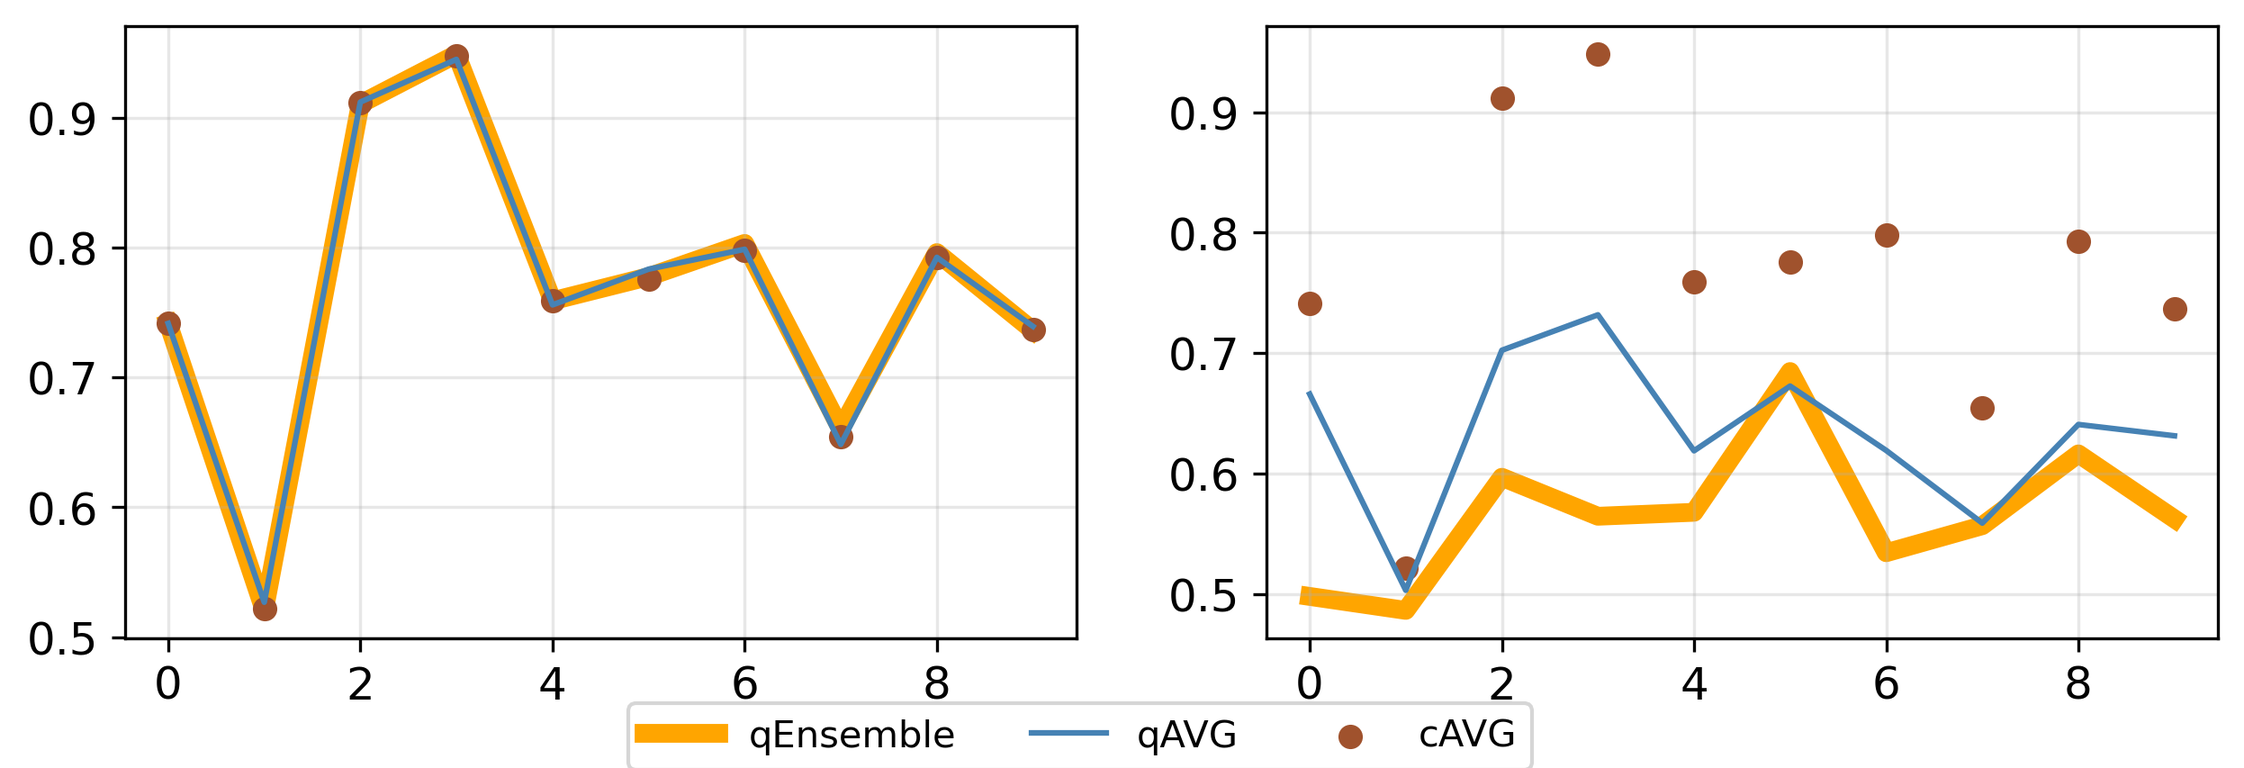
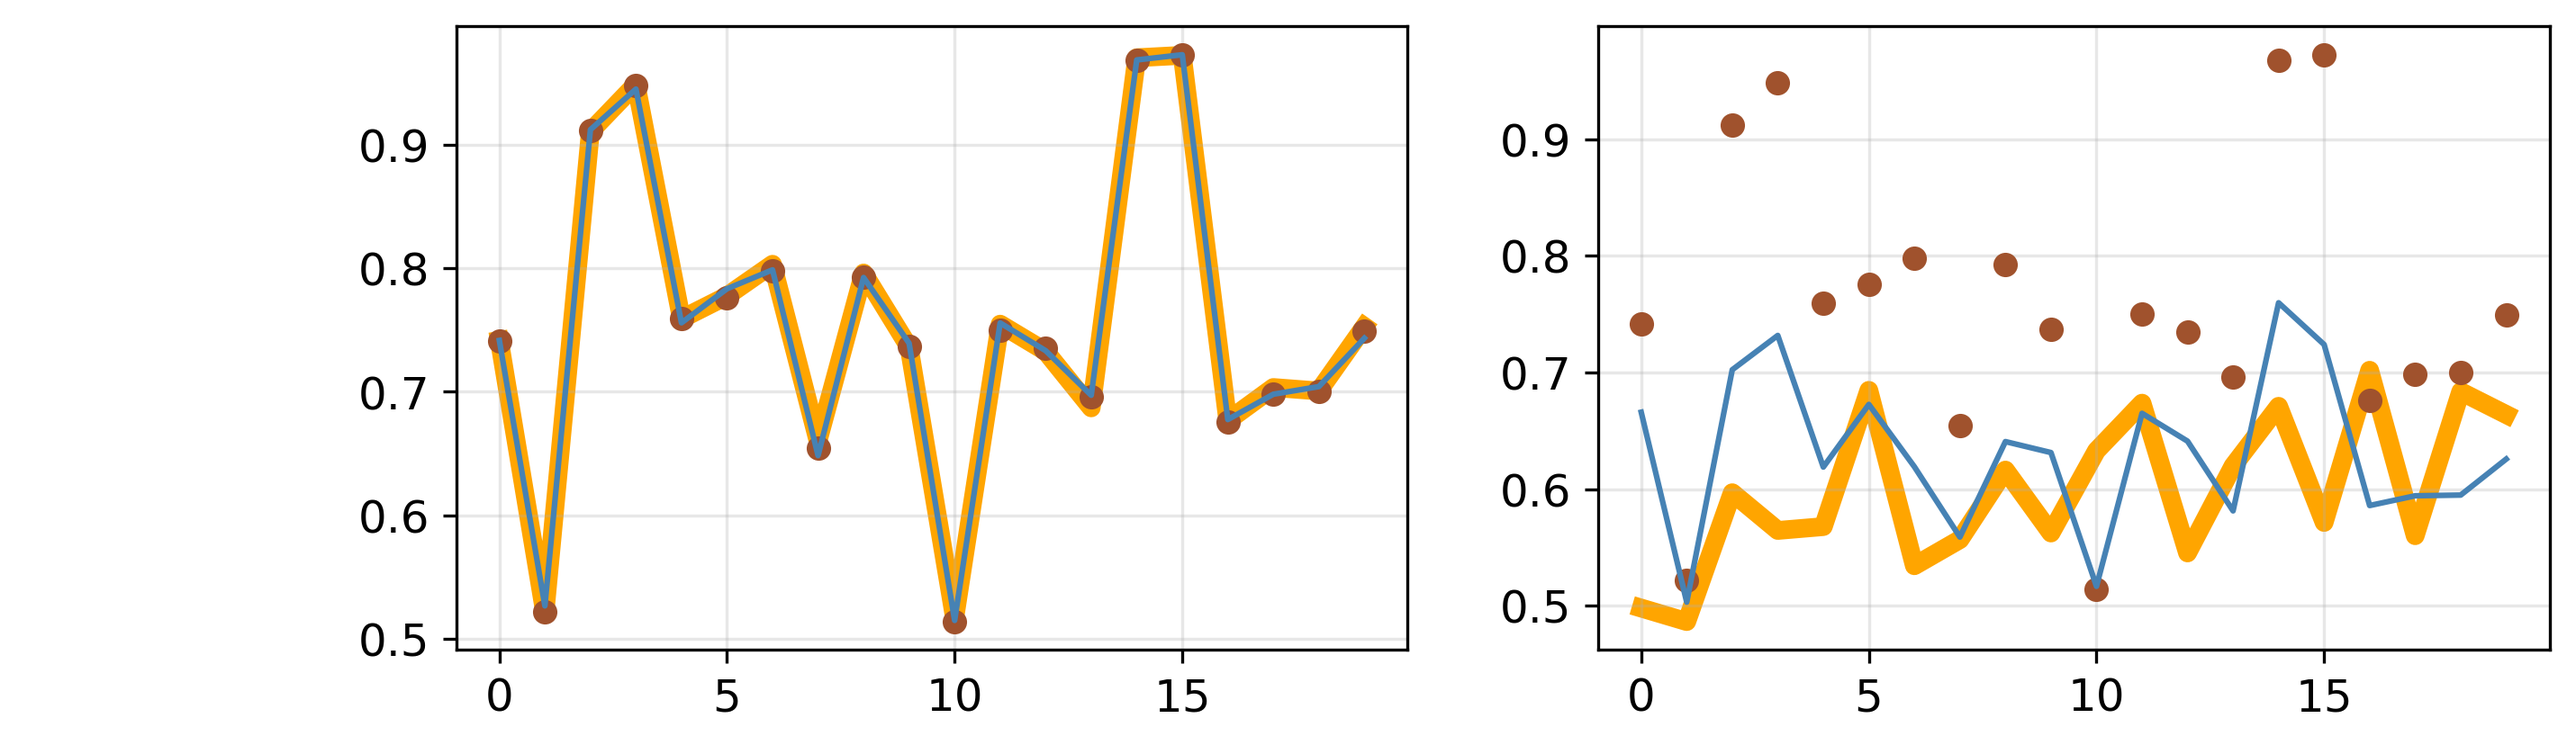
Convert notebook full experiments in python script. code to comment

diff --git a/Visualization.py b/Visualization.py
@@ -1,0 +1,59 @@
+from Utils import *
+
+data_out = pd.read_csv('output/data_out.csv')
+
+x = np.arange(len(data_out))
+
+fig, (ax, ax1) = plt.subplots(1, 2, figsize=(10,3))
+
+p0_avg = data_out.qAVG_sim
+p0_ens = data_out.qEns_sim
+p0_clas = data_out.cAVG
+
+#ax = plt.subplot(221)
+
+ax.plot(x, p0_ens, color='orange', label='qEnsemble', zorder=1, linewidth=5)
+ax.plot(x, p0_avg, color='steelblue', label='qAVG')
+ax.scatter(x, p0_clas, label='cAVG', color='sienna', zorder=2, linewidth=.5)
+
+#ax.set_xlim(-1.1, 1.1)
+# ax.set_ylim(-.2, 1.05)
+ax.grid(alpha=0.3)
+#ax.set_xticks(np.round(np.arange(-1, 1.1, .4), 1).tolist())
+#ax.set_title('Comparison', size=14)
+ax.tick_params(labelsize=12)
+
+
+avg = data_out.qAVG_real
+ens = data_out.qEns_real
+clas = data_out.cAVG
+
+#ax1 = plt.subplot(222)
+
+ax1.plot(x, ens, color='orange', label='qEnsemble', zorder=1, linewidth=5)
+ax1.plot(x, avg, color='steelblue', label='qAVG')
+ax1.scatter(x, clas, label='cAVG', color='sienna', zorder=2, linewidth=.5)
+
+#ax.set_xlim(-1.1, 1.1)
+# ax.set_ylim(-.2, 1.05)
+ax1.grid(alpha=0.3)
+#ax.set_xticks(np.round(np.arange(-1, 1.1, .4), 1).tolist())
+#ax.set_title('Comparison', size=14)
+ax1.tick_params(labelsize=12)
+# plt.legend(loc='lower center',# bbox_to_anchor=(0.5, -.15),
+#           ncol=3, fancybox=True, shadow=True, fontsize = 12)
+# handles, labels = ax.get_legend_handles_labels()
+# lgd=fig.legend(handles, labels, loc='lower center', ncol=3, bbox_to_anchor=(0.4, -.025))
+
+plt.savefig('output/experiments.png', dpi = 300, bbox_extra_artists=(lgd,), bbox_inches='tight')
+plt.show()
+plt.close()
+
+
+fig = plt.figure(figsize=(6, 1))
+handles, labels = ax.get_legend_handles_labels()
+fig.legend(handles, labels, loc='center', ncol=3)
+plt.savefig('output/legend.png', dpi=300, bbox_inches='tight')
+plt.show()
+
+
